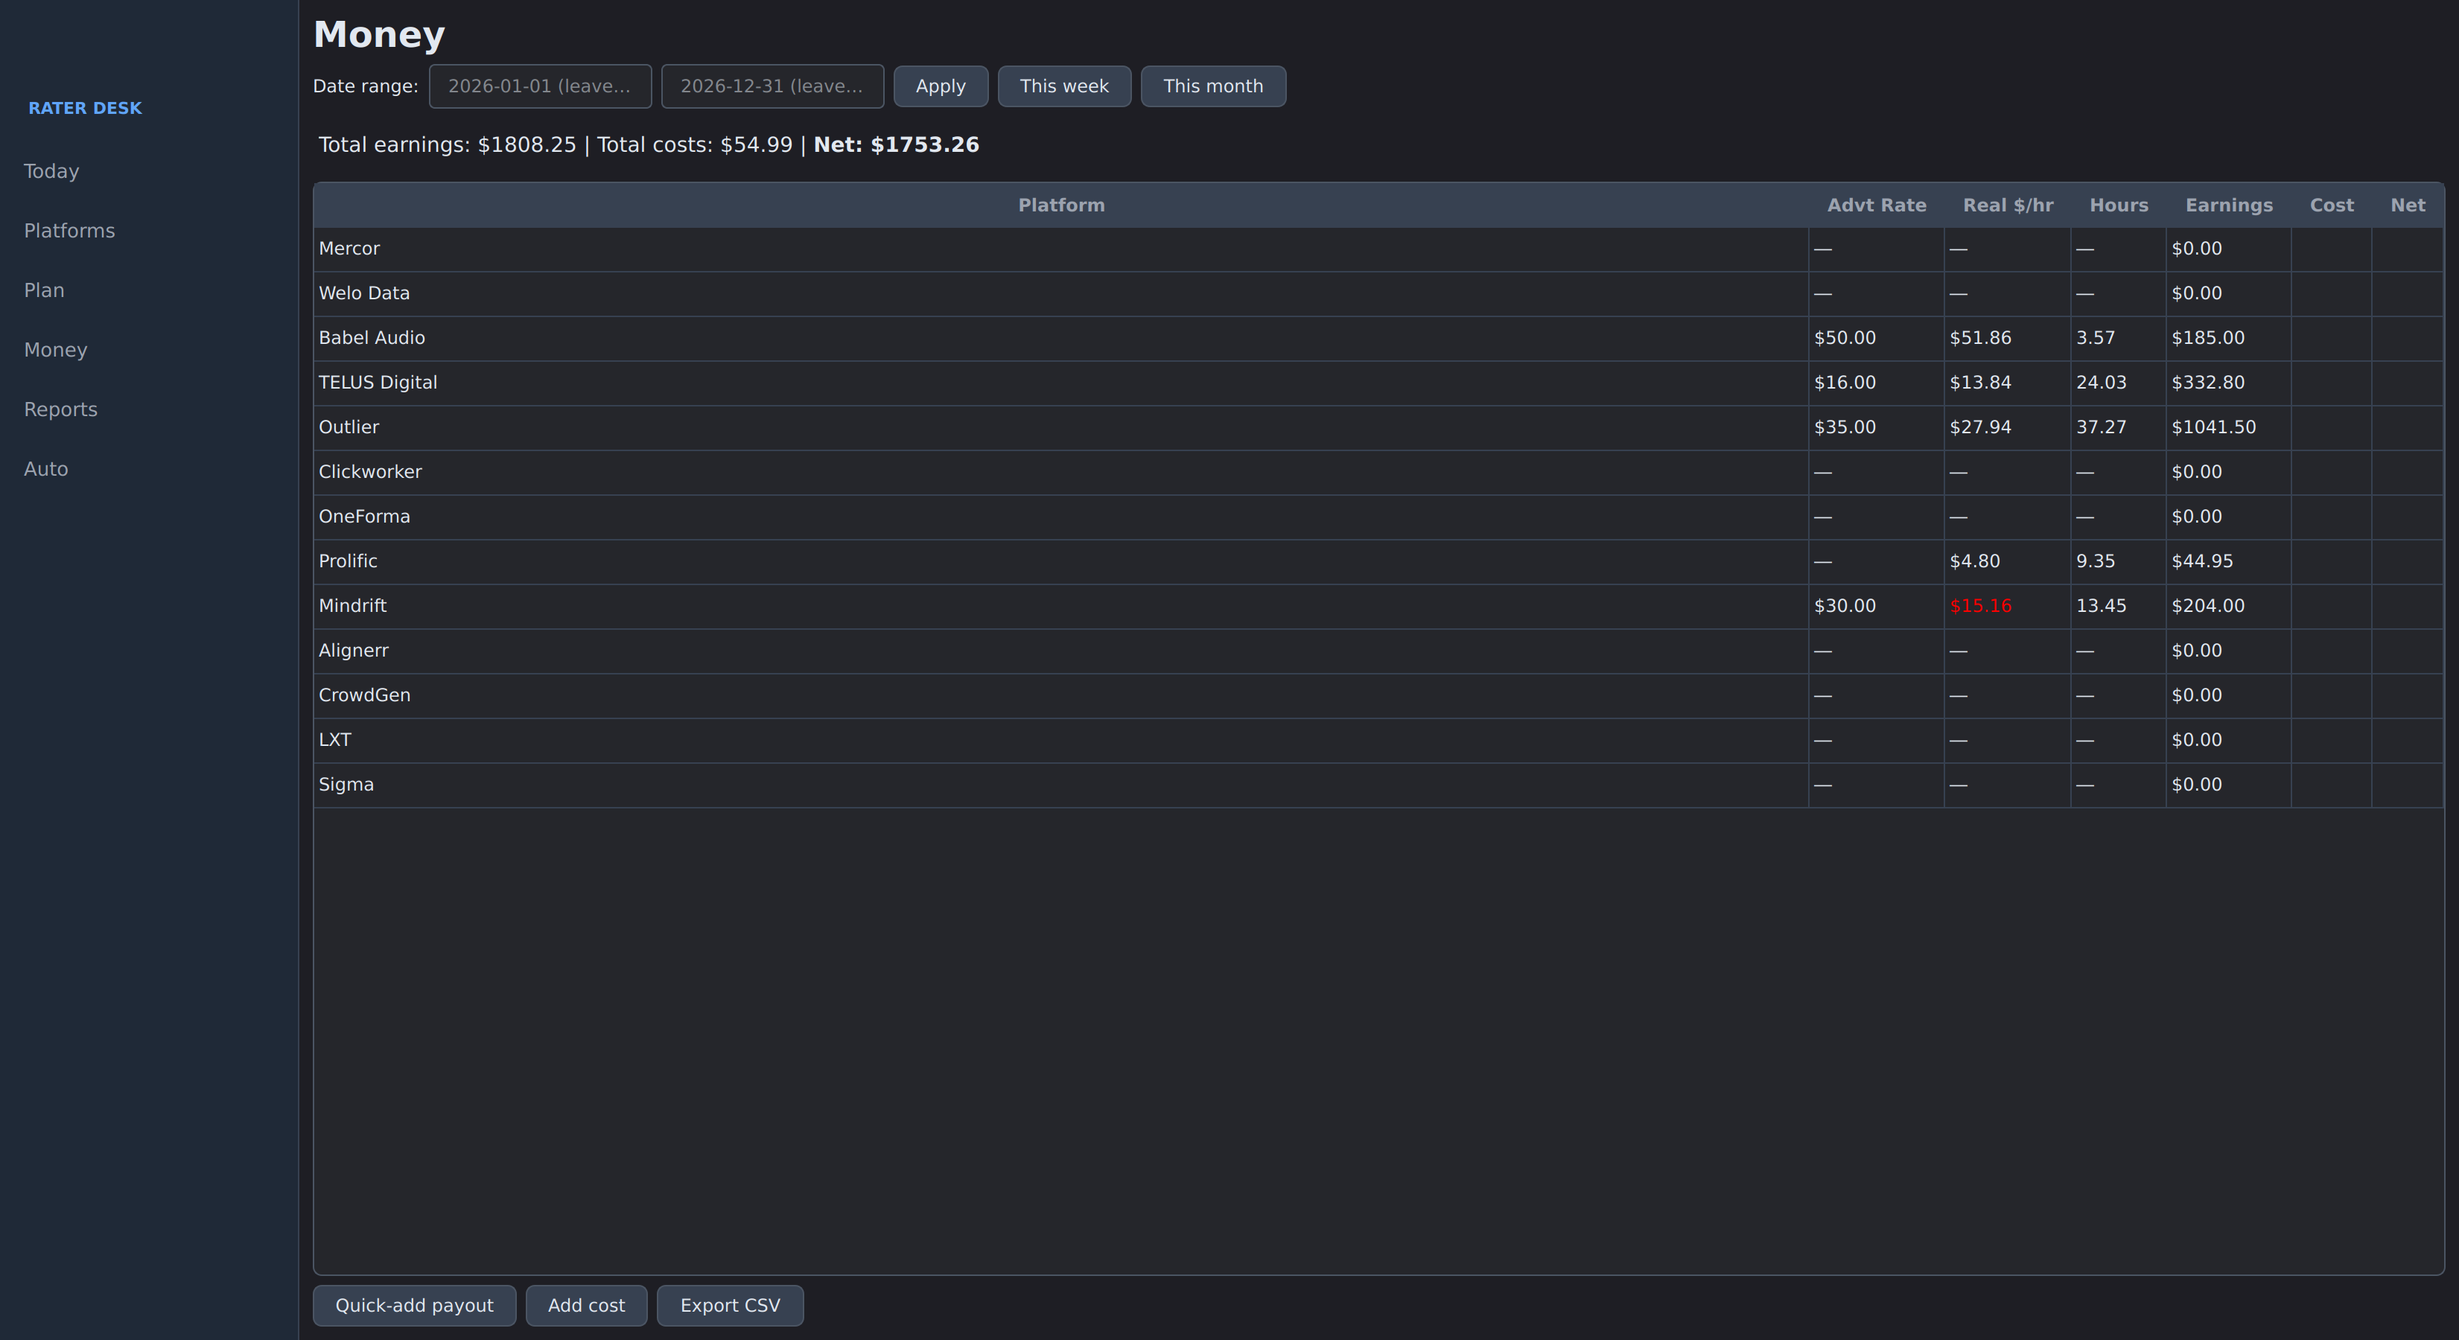
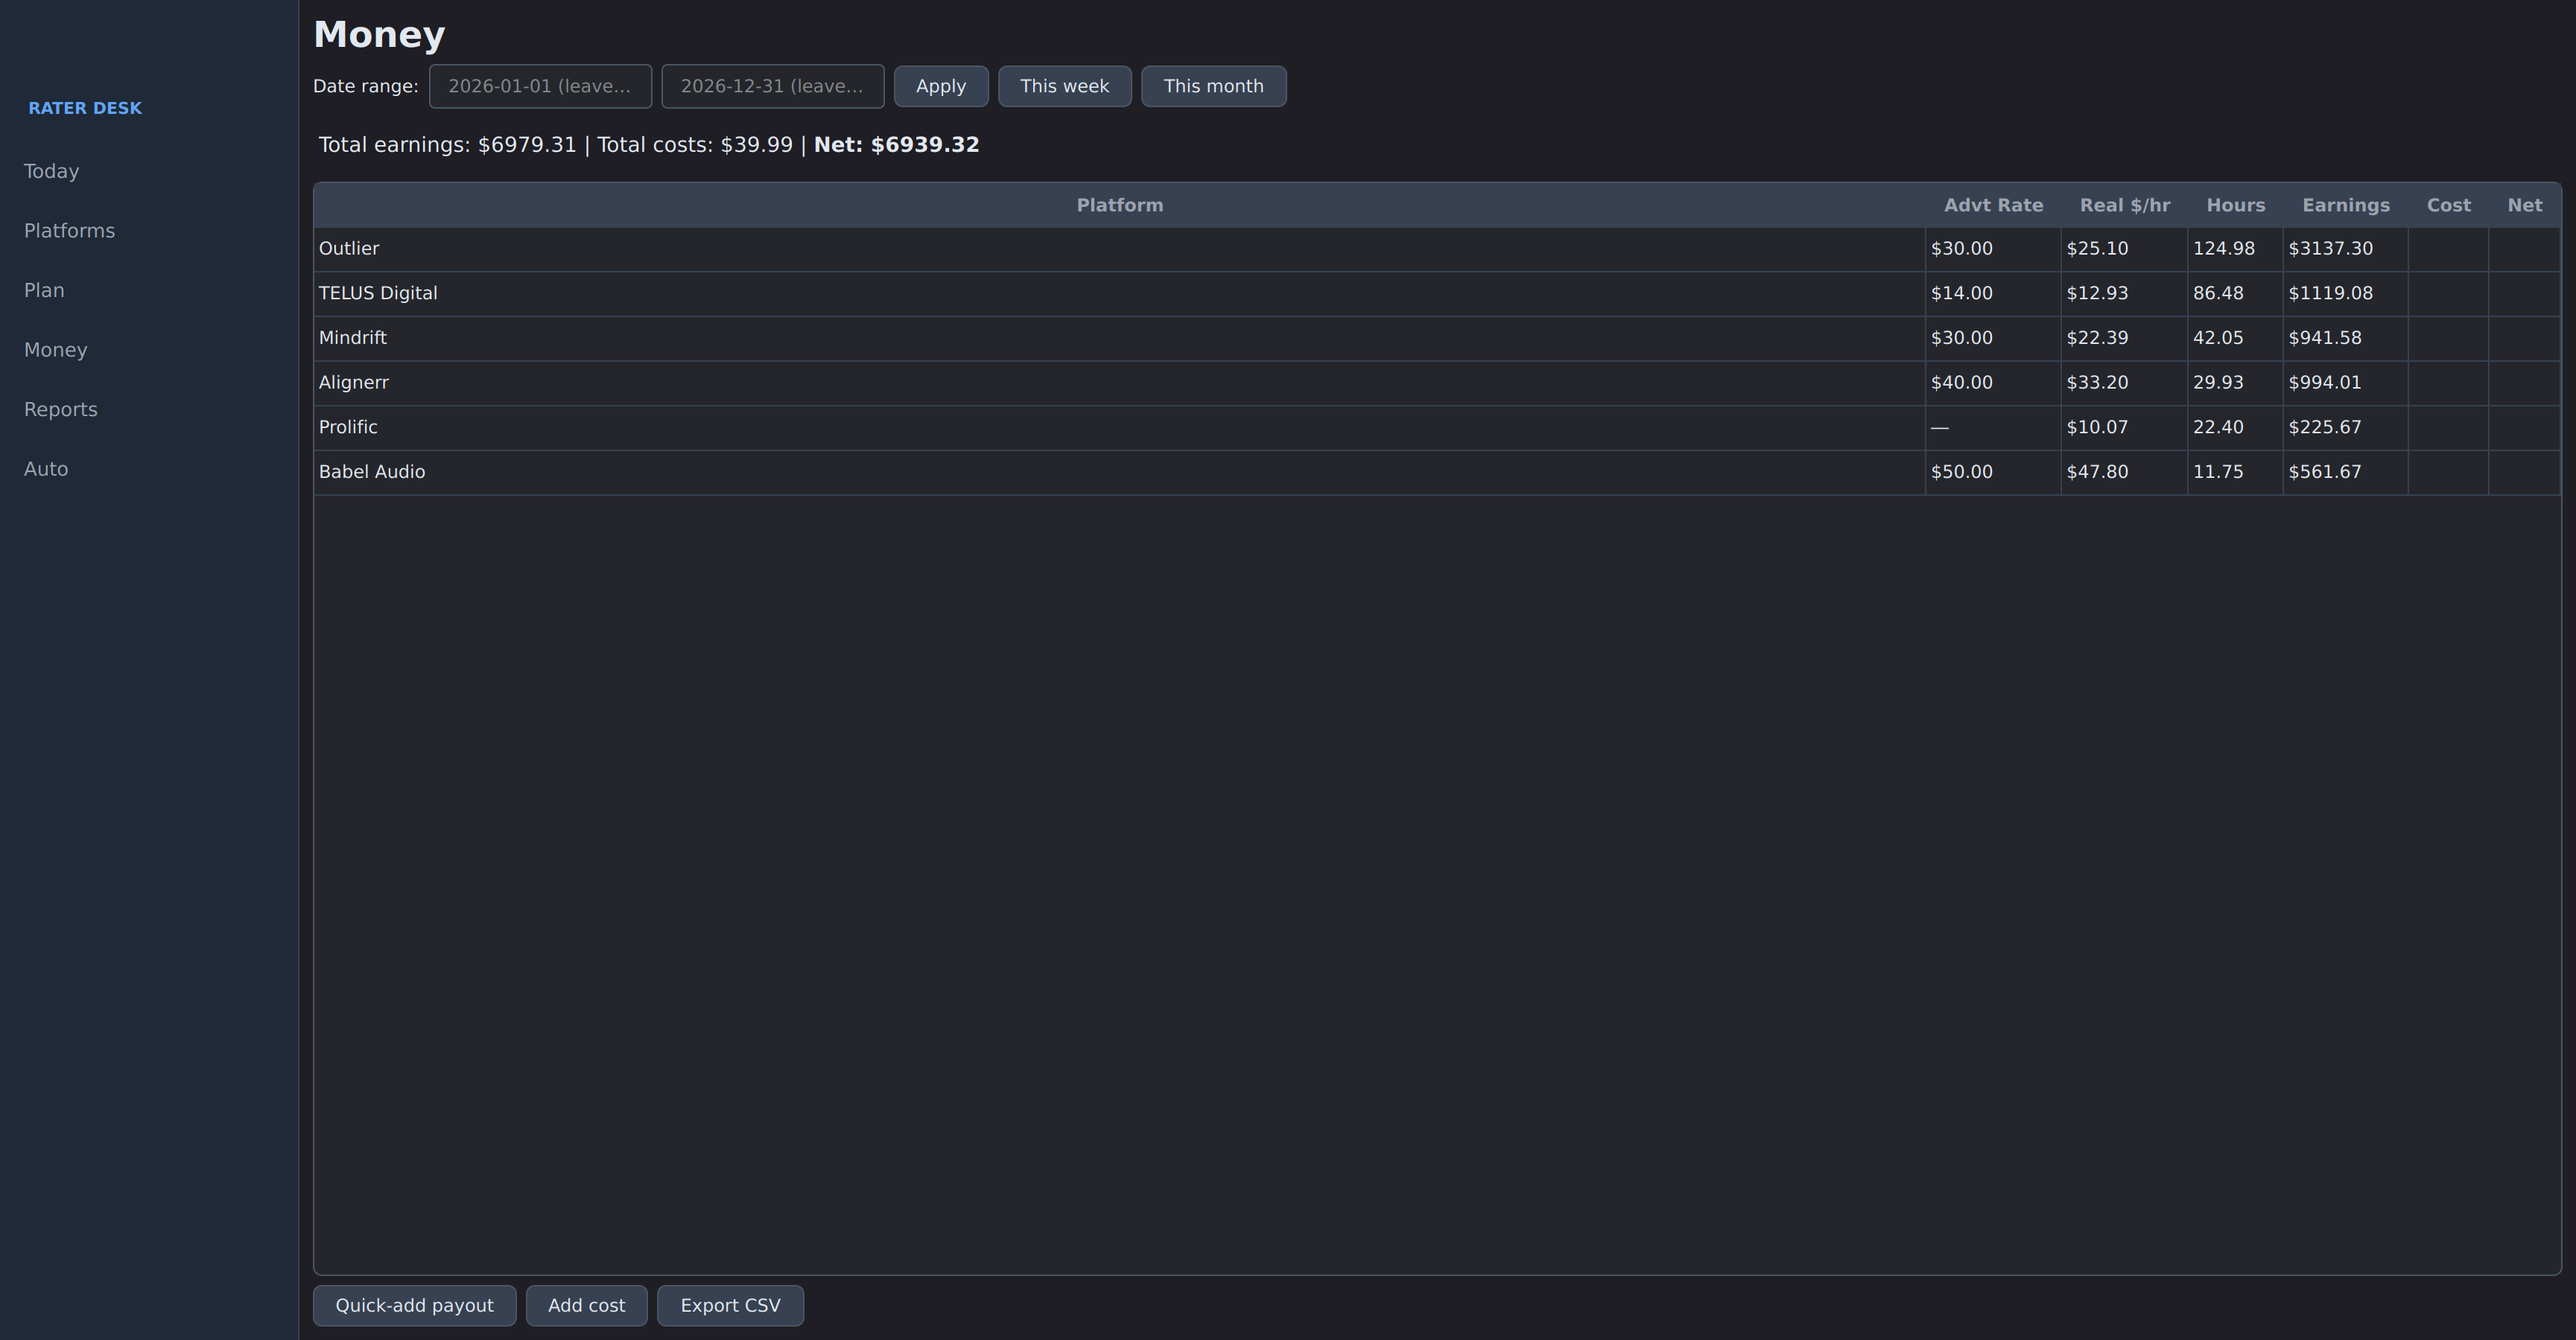
Simplify the README and refresh the screenshots

diff --git a/README.md b/README.md
@@ -1,53 +1,23 @@
-<p align="center">
-  <img src="assets/icon.svg" width="88" alt="">
-</p>
+# Rater Desk
 
-<h1 align="center">Rater Desk</h1>
+A small desktop app I use to keep track of AI rating and training work across several platforms: sign-up steps, a session timer, payouts, and what each platform really pays per hour.
 
-<p align="center">
-  A desktop app for AI rating and training work spread across several platforms.<br>
-  It tracks each platform's setup steps, times your sessions, records payouts,<br>
-  and shows what every platform really pays per hour.
-</p>
+![Money screen](docs/screenshots/money.png)
 
-<p align="center">
-  <a href="https://github.com/nicholasphillips-systems/rater-desk/actions/workflows/tests.yml"><img src="https://github.com/nicholasphillips-systems/rater-desk/actions/workflows/tests.yml/badge.svg" alt="Tests"></a>
-  <a href="https://github.com/nicholasphillips-systems/rater-desk/releases/latest"><img src="https://img.shields.io/github/v/release/nicholasphillips-systems/rater-desk" alt="Latest release"></a>
-  <img src="https://img.shields.io/badge/python-3.10%2B-3776AB" alt="Python 3.10+">
-  <img src="https://img.shields.io/badge/platform-Windows%20%7C%20Linux-555" alt="Windows and Linux">
-  <a href="LICENSE"><img src="https://img.shields.io/badge/license-MIT-2ea44f" alt="MIT license"></a>
-</p>
+## What it does
 
-![Money screen: each platform's advertised rate next to the real hourly rate earned](docs/screenshots/money.png)
+- Times work sessions, by hand or automatically from the browser tab you're in
+- Records payouts and shows real hourly pay next to the advertised rate
+- Tracks each platform's sign-up steps
+- Plans the week and exports it to a calendar (`.ics`)
+- Can read platform and PayPal/Payoneer emails to log payouts and status changes
+- Keeps everything in one local SQLite file
 
-## Features
+## Run it
 
-- **Real hourly pay.** Puts each platform's advertised rate next to what you actually earned per hour worked, and flags the gap.
-- **Session timer.** Start and stop it by hand, or let auto mode run it from the browser tab you're working in.
-- **Email updates.** Reads platform and PayPal / Payoneer mail (read-only) and turns it into payouts, status changes and setup tasks.
-- **Setup tracking.** Every platform's sign-up steps, with the ones only you can do (ID checks, video interviews) marked.
-- **Weekly plan.** Block out work time and export the week to any calendar as an `.ics` file.
-- **Local and private.** Everything lives in one SQLite file on your own machine, backed up daily.
+**Windows:** grab `RaterDesk.exe` from the [latest release](https://github.com/nicholasphillips-systems/rater-desk/releases/latest). It isn't code-signed, so click **More info → Run anyway** the first time.
 
-## Download
-
-**Windows:** download `RaterDesk.exe` from the [latest release](https://github.com/nicholasphillips-systems/rater-desk/releases/latest) and run it. Nothing to install, no Python needed. The file isn't code-signed, so the first launch shows "Windows protected your PC": choose **More info**, then **Run anyway**.
-
-**Linux:** run it from source (below).
-
-## Screenshots
-
-| Today | Platforms |
-|---|---|
-| ![Today: a session being timed automatically, today's planned blocks and setup tasks due](docs/screenshots/today.png) | ![Platforms: every platform's status, with Outlier's details open](docs/screenshots/platforms.png) |
-
-![Auto mode: what it found in platform and payment email, and what it changed](docs/screenshots/auto.png)
-
-<sub>Screenshots use sample data.</sub>
-
-## Run from source
-
-Needs Python 3.10 or newer.
+**Linux** (Python 3.10+):
 
 ```bash
 git clone https://github.com/nicholasphillips-systems/rater-desk.git
@@ -57,132 +27,12 @@ python3 -m venv ~/.venvs/rater-desk
 ./run.sh
 ```
 
-To add it to the application menu, set the two paths in `rater-desk.desktop` to where you cloned the repo.
-
-## Auto mode
-
-The **Auto** screen turns on two things. Each works without the other.
-
-**Auto timer.** Starts and stops the timer from the browser tab you're in, with no
-button presses:
-
-- A platform's site in front for 45 s starts its timer, back-dated to when you opened it.
-- Leaving every platform tab for 5 min stops it at the moment you left. A quick look
-  at notes in between doesn't break the session.
-- Switching to another platform's tab moves the timer over.
-- 15 min without mouse input, or locking the screen, stops it at your last input.
-- A timer you start by hand always wins, and pressing Stop on an auto session keeps
-  it stopped until you leave that platform and come back.
-- Sessions under 2 min are dropped. The Sessions tab shows who started each one.
-
-Only browser windows count, matched on words in the tab title (`catalog.py`; each
-platform's **Auto** tab can override them). On KDE Plasma a small KWin script
-(`activity.py`) reports the focused window and mouse movement to the app over
-D-Bus, since Wayland gives apps no other view of other windows. On Windows the
-app polls the foreground window and `GetLastInputInfo`. Other desktops show
-"unavailable". KWin reports mouse movement but not key presses, so typing for
-15 min without touching the mouse counts as idle.
-
-**Email.** Reads only mail from the platforms and from PayPal / Payoneer, every 10 min
-(read-only, so nothing gets marked read). Add a Gmail account with an
-[app password](https://myaccount.google.com/apppasswords), which needs 2-Step
-Verification. The password goes into the system keyring. Several accounts can be watched.
-
-| Email says | What changes |
-|---|---|
-| Payment from a platform (PayPal / Payoneer / the platform) | Payout added |
-| Account created, sign-in code, welcome | Status raised to Account Made |
-| Accepted / approved / congratulations | Status raised to Active |
-| "Verify your phone", "finish your application" (last 14 days) | Setup task added |
-| "Phone verified", later sign-ins | Matching task marked done |
-| Mail from a known platform not in your list | Platform added |
-| Rejection, project invite, payment from an unknown payer | Logged only |
-
-Statuses only move forward, and Blocked / Paused / Dead are never touched. Every
-change is listed under *What auto mode found*. The rules live in `maildetect.py`, and
-`tests/test_auto_mode.py` checks them against real subjects from the platforms.
-
-## How it works
-
-- **Storage.** One SQLite database: `data/rater-desk.sqlite3` beside the code, or the per-user data folder in the Windows build. `RATER_DESK_DATA=/some/folder` overrides both. `schema.sql` defines the tables and `migrations.py` upgrades older databases on startup.
-- **Money.** Stored as integer cents, never floats. Real hourly pay counts base pay only, not bonuses.
-- **Calendar export.** A hand-written `.ics` writer: TZID headers, stable UIDs per block, RFC 5545 escaping, 75-octet line folding and CRLF line endings.
-- **Backups.** A timestamped copy of the database every day in `data/backups/`, keeping the last 30.
-- **System tray.** Closing the window keeps it running in the tray. It can start at login.
-- **Crash recovery.** A session still running when the app last closed is offered back on the next launch: keep timing it, or stop it at that moment.
-- **Long sessions.** After 90 minutes on one session, a tray notification suggests a break.
-- **First run.** A new database starts with a neutral list of twelve platforms (`starter.py`), with no one's account progress in it.
-
-## Development
-
-### Tests
+## Tests
 
 ```bash
-~/.venvs/rater-desk/bin/pip install pytest
 QT_QPA_PLATFORM=offscreen ~/.venvs/rater-desk/bin/python -m pytest
 ```
 
-85 tests cover the schema, money math, sessions, payouts and costs, the `.ics` writer, per-OS data paths, the starter list, first run, start-at-login, the auto timer's rules, email detection, and opening every screen. They run on Linux and Windows on every push.
-
-This public copy leaves out my own platform list and the 7 tests that cover it.
-
-### Windows build
-
-From Linux, using Windows Python under Wine in its own prefix:
-
-```bash
-./build-windows.sh        # -> dist/Rater Desk.exe
-```
-
-Or on a Windows PC with Python 3.10+, double-click `build-windows.bat`. The Windows build keeps its data in `%APPDATA%\Rater Desk\`, saves exports to Documents, and registers start-at-login under Task Manager's Startup apps.
-
-### Project layout
-
-<details>
-<summary>Files</summary>
-
-```
-rater-desk/
-├── main.py            # Entry point: QApplication, QMainWindow, tray, crash recovery
-├── paths.py           # Where data lives on each OS (source run vs packaged build)
-├── autostart.py       # Start at login: XDG autostart file / Windows Run key
-├── schema.sql         # SQLite schema (version 2)
-├── migrations.py      # Migration runner (creates tables on first open)
-├── store.py           # All SQL + money math (integer cents only)
-├── starter.py         # Neutral list of the same 12 platforms for a brand-new install
-├── ics.py             # Hand-written .ics writer (TZID, stable UIDs, RFC 5545 folding)
-├── backup.py          # Daily timestamped backup (keeps 30)
-├── catalog.py         # How each platform is recognised: tab-title words, email domains, payer names
-├── activity.py        # Focused window + input: KWin script over D-Bus / Windows API polling
-├── autotimer.py       # Auto timer rules (start, stop, switch, idle, lock)
-├── maildetect.py      # What a platform/payment email means, and applying it
-├── mailwatch.py       # Gmail over IMAP (app password in the keyring), background thread
-├── run.sh             # Launches with the venv in ~/.venvs/rater-desk
-├── rater-desk.desktop # Desktop launcher
-├── rater-desk.spec    # PyInstaller recipe for the one-file build
-├── build-windows.sh   # Builds the Windows .exe from Linux (Wine)
-├── build-windows.bat  # Builds the Windows .exe on a Windows PC
-├── ui/
-│   ├── styles.py      # Dark theme, badge colors
-│   ├── today.py       # Today screen (timer, blocks, setup, money)
-│   ├── platforms.py   # Platforms list + detail view (tabbed)
-│   ├── plan.py        # Week grid with block create/edit + ICS export
-│   ├── money.py       # Per-platform rate/net table, quick-add payout/cost
-│   ├── reports.py     # Earnings summary, idle platforms, deadlines
-│   ├── auto.py        # Auto screen: auto timer switch, Gmail accounts, detection log
-│   ├── dialogs.py     # ProjectDialog, PayoutDialog
-│   ├── csv_export.py  # CSV export of payouts, costs, sessions, blocks
-│   └── files.py       # Default export folder, open-in-file-manager
-└── tests/
-    ├── test_store_and_ics.py   # store, money math, .ics
-    ├── test_auto_mode.py       # window matching, auto timer rules, email detection
-    ├── test_store_calls.py     # every Store method the screens call exists
-    ├── test_screens.py         # opens every screen, platform and tab offscreen
-    └── test_cross_platform.py  # data paths, starter list, first run, autostart
-```
-
-</details>
-
 ## License
 
-MIT. See [LICENSE](LICENSE).
+MIT
